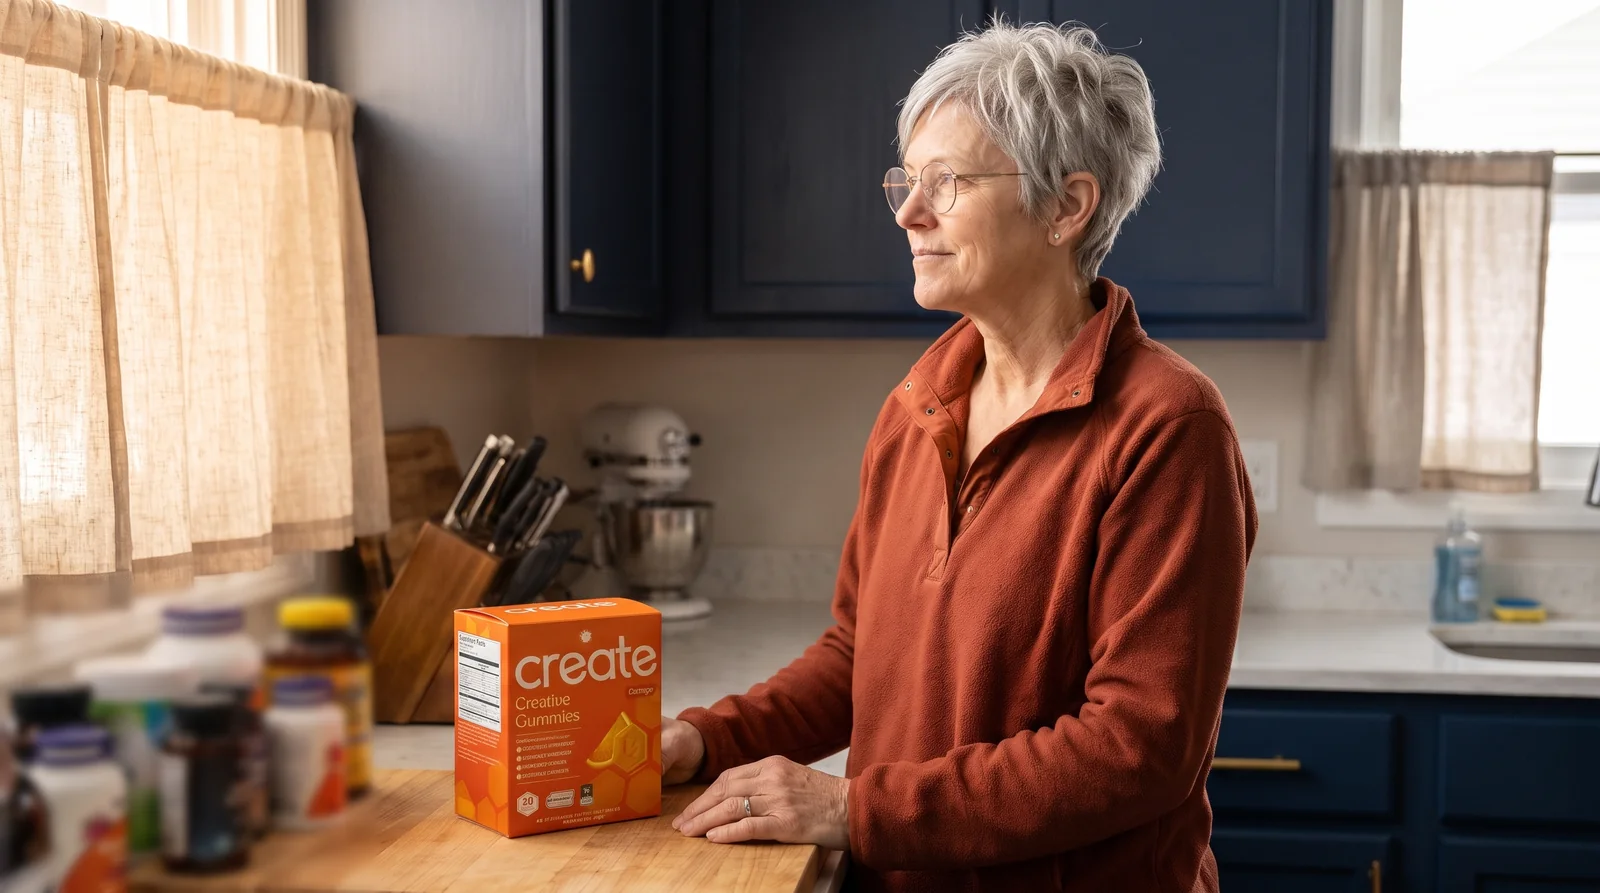
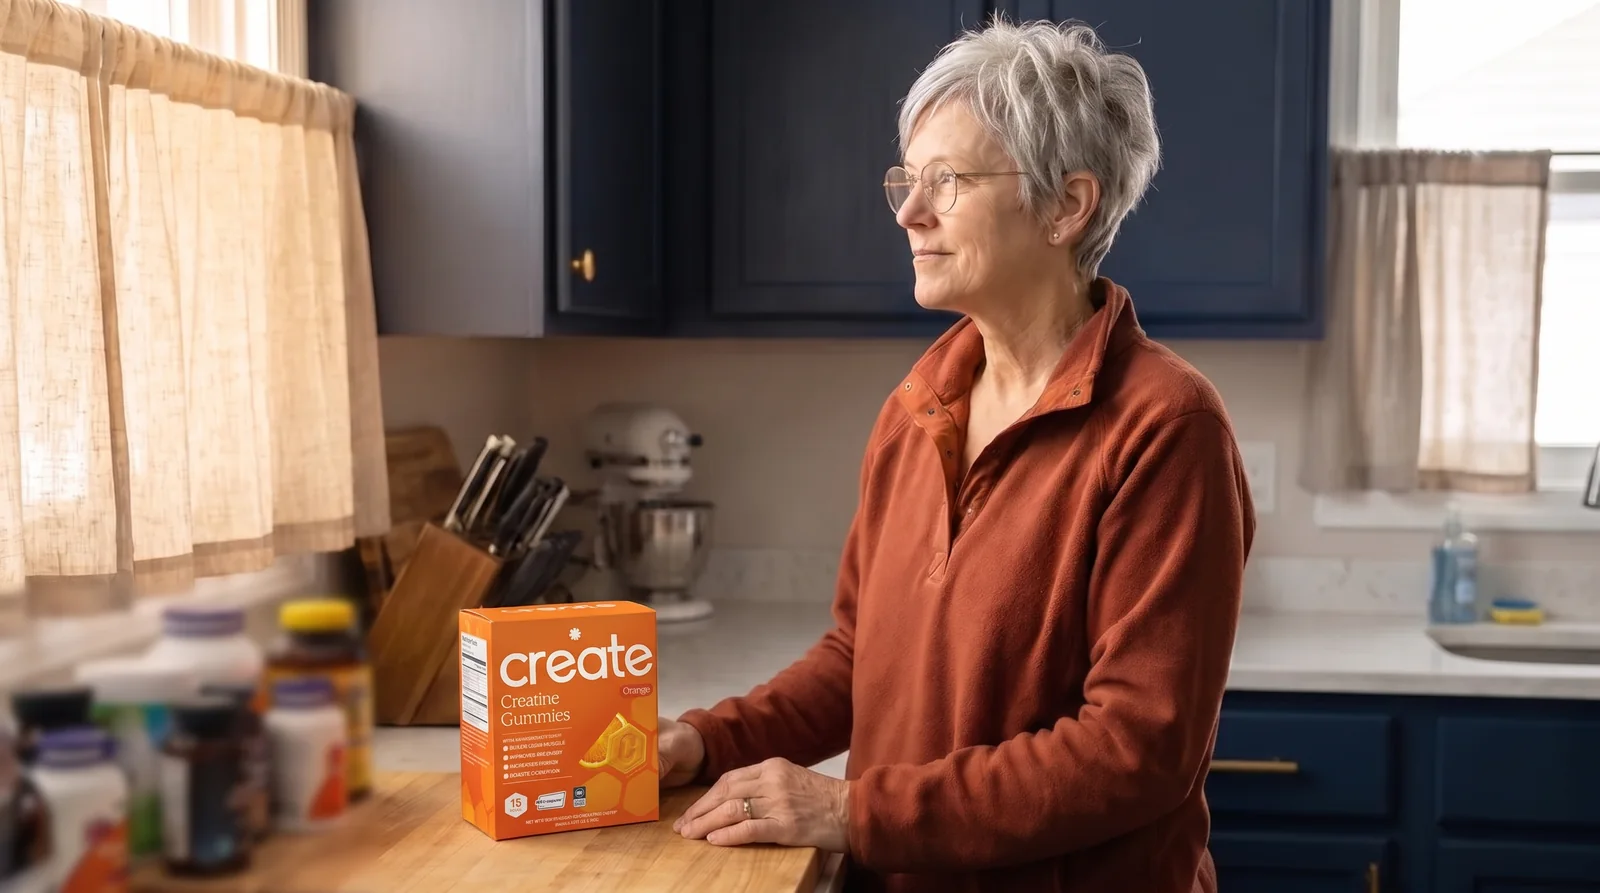
photos: creatine-gummies-women-over-50 recheck fixes

diff --git a/blog-pipeline/photos-completed/creatine-gummies-women-over-50.md b/blog-pipeline/photos-completed/creatine-gummies-women-over-50.md
@@ -36,3 +36,6 @@ note: "Navy kitchen with cafe curtains, woman in her mid fifties with a gray pix
 - image_url: https://scan.ismyhometoxic.com/blog-images/creatinegum-freedom-v1.webp
 - placement: final image before the closing scan CTA
 - completed: 2026-11-19T18:05:00
+
+## Recheck (Photo Claude) 2026-11-20
+Recheck: Turning point box relabelled correctly; hero side panel softened.
